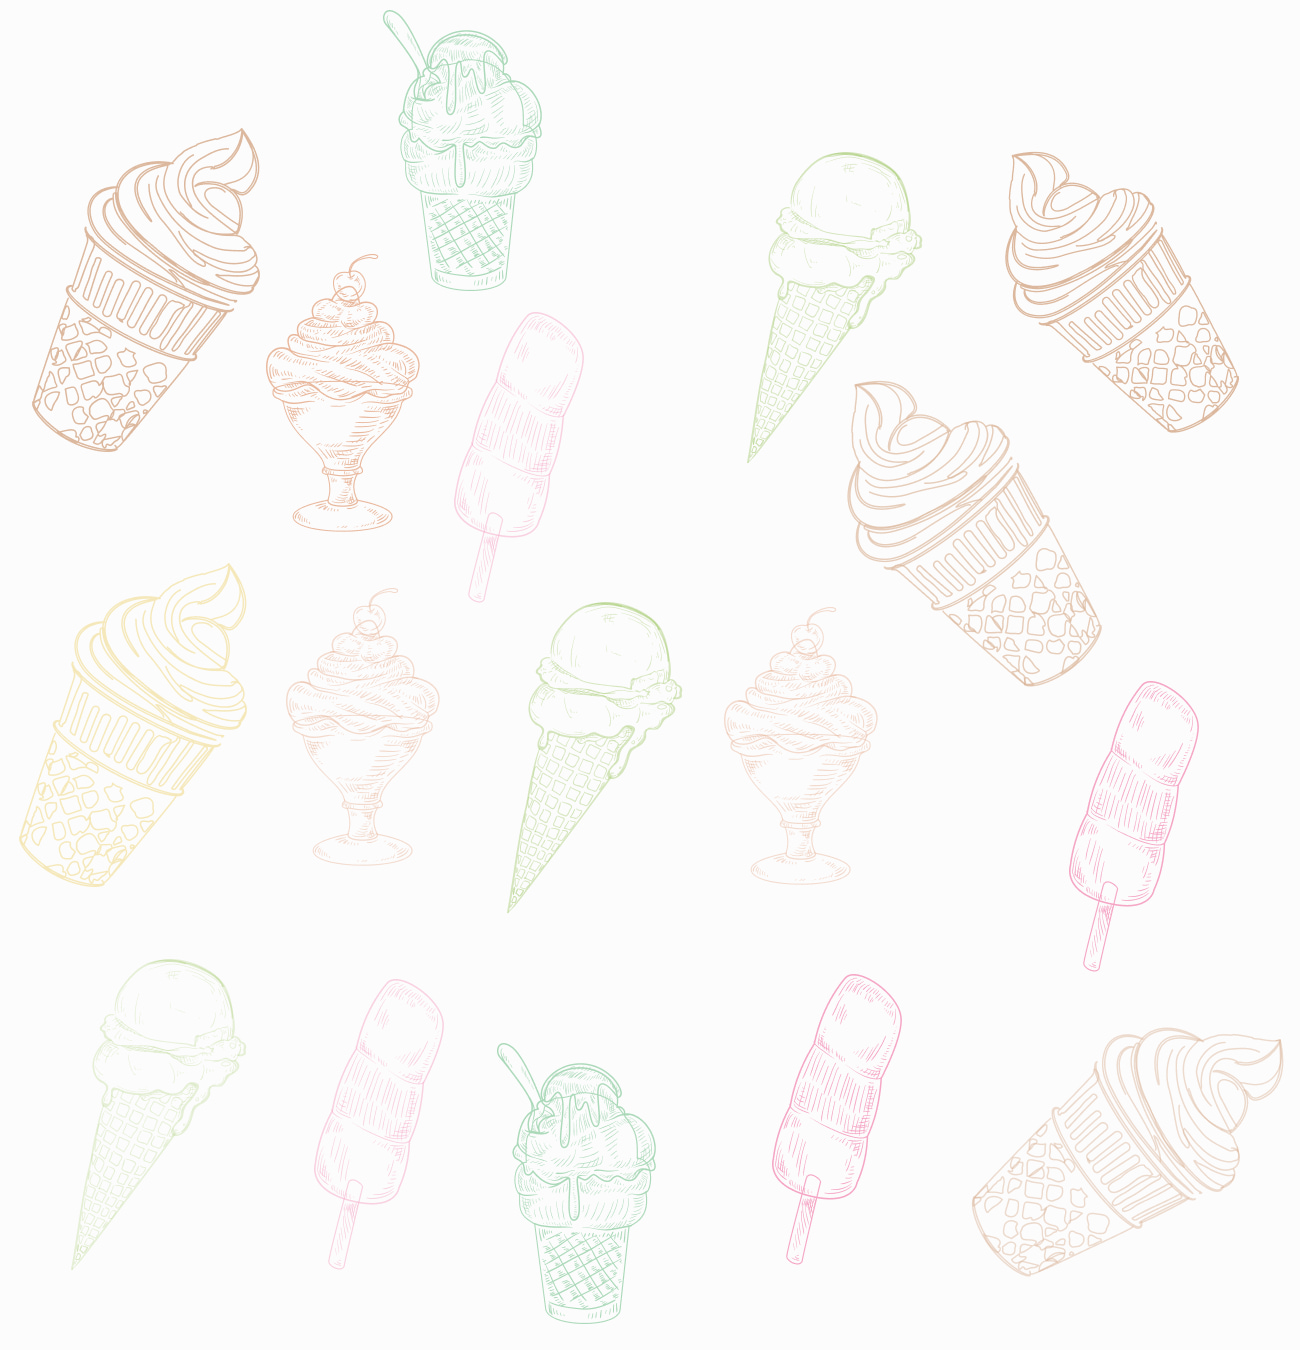
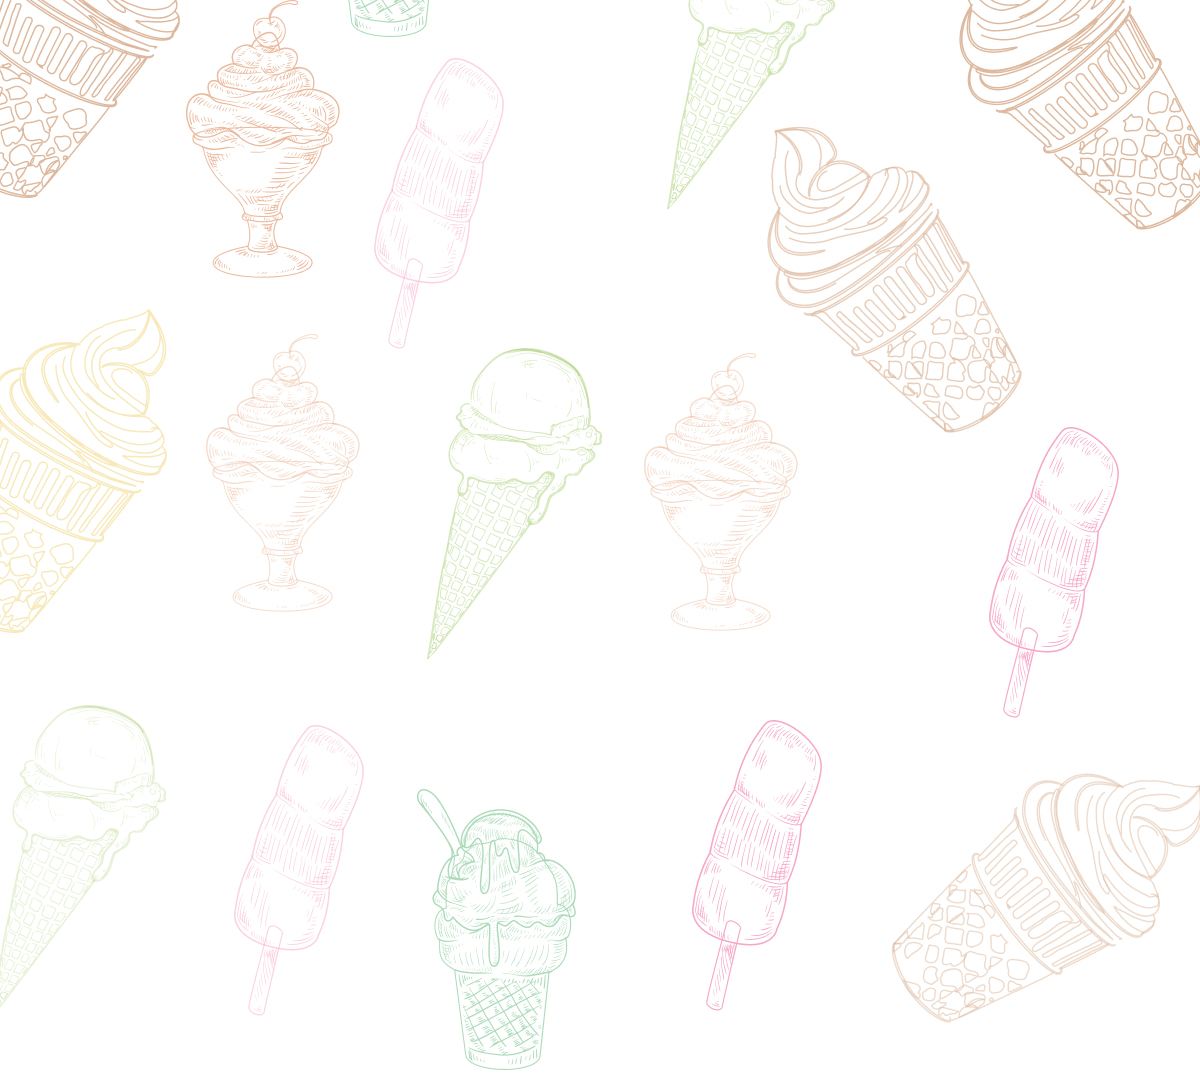
products section done

diff --git a/src/partials/products.html b/src/partials/products.html
@@ -1,53 +1,55 @@
 <section class="section-products">
-  <div class="section-products-header">
-    <span class="section-products-header-span">100% natural</span>
-    <h1 class="section-products-header-title">products</h1>
-  </div>
+  <div class="products-container">
+    <div class="section-products-header">
+      <span class="section-products-header-span">100% natural</span>
+      <h1 class="section-products-header-title">products</h1>
+    </div>
 
-  <div class="products-grid container">
-    <ul class="products-grid-list">
-      <li class="product-card-item ice-cream-container">
-        <div class="product-card-container">
-          <h2 class="product-card-title">ice cream</h2>
-          <p class="product-card-paragraph">
-            Soft ice cream with a delicate taste. Made with milk, cream, sugar
-            and natural stabilizer
-          </p>
-          <button class="product-card-arrow-button">
-            <svg class="product-card-icon" width="40" height="16">
-              <use href="./images/icons-products.svg#icon-arrow"></use>
-            </svg>
-          </button>
-        </div>
-      </li>
-      <li class="product-card-item ice-coffee-container">
-        <div class="product-card-container">
-          <h2 class="product-card-title">ice coffee</h2>
-          <p class="product-card-paragraph">
-            Fragrant invigorating drink created from 100% natural ingredients
-            without the use of preservatives and flavor enhancers
-          </p>
-          <button class="product-card-arrow-button">
-            <svg class="product-card-icon" width="40" height="16">
-              <use href="./images/icons-products.svg#icon-arrow"></use>
-            </svg>
-          </button>
-        </div>
-      </li>
-      <li class="product-card-item milkshakes-container">
-        <div class="product-card-container">
-          <h2 class="product-card-title">milkshakes</h2>
-          <p class="product-card-paragraph">
-            Sweet drinks based on milk and ice cream, supplemented with syrups,
-            fruits, berries and other sweets of your choice
-          </p>
-          <button type="button" class="product-card-arrow-button">
-            <svg class="product-card-icon" width="40" height="16">
-              <use href="./images/icons-products.svg#icon-arrow"></use>
-            </svg>
-          </button>
-        </div>
-      </li>
-    </ul>
+    <div class="products-grid container">
+      <ul class="products-grid-list">
+        <li class="product-card-item ice-cream-container">
+          <div class="product-card-container">
+            <h2 class="product-card-title">ice cream</h2>
+            <p class="product-card-paragraph">
+              Soft ice cream with a delicate taste. Made with milk, cream, sugar
+              and natural stabilizer
+            </p>
+            <button class="product-card-arrow-button">
+              <svg class="product-card-icon" width="40" height="16">
+                <use href="./images/icons-products.svg#icon-arrow"></use>
+              </svg>
+            </button>
+          </div>
+        </li>
+        <li class="product-card-item ice-coffee-container">
+          <div class="product-card-container">
+            <h2 class="product-card-title">ice coffee</h2>
+            <p class="product-card-paragraph">
+              Fragrant invigorating drink created from 100% natural ingredients
+              without the use of preservatives and flavor enhancers
+            </p>
+            <button class="product-card-arrow-button">
+              <svg class="product-card-icon" width="40" height="16">
+                <use href="./images/icons-products.svg#icon-arrow"></use>
+              </svg>
+            </button>
+          </div>
+        </li>
+        <li class="product-card-item milkshakes-container">
+          <div class="product-card-container">
+            <h2 class="product-card-title">milkshakes</h2>
+            <p class="product-card-paragraph">
+              Sweet drinks based on milk and ice cream, supplemented with
+              syrups, fruits, berries and other sweets of your choice
+            </p>
+            <button type="button" class="product-card-arrow-button">
+              <svg class="product-card-icon" width="40" height="16">
+                <use href="./images/icons-products.svg#icon-arrow"></use>
+              </svg>
+            </button>
+          </div>
+        </li>
+      </ul>
+    </div>
   </div>
 </section>

diff --git a/src/sass/_products.scss b/src/sass/_products.scss
@@ -224,9 +224,143 @@ body {
       }
 
       .product-card-item {
-        width: 320px;
+        min-width: 320px;
         height: 428px;
-        border-radius: 24px;
-        position: relative;
       }
+
+      .products-grid-list {
+        align-items: center;
+        justify-content: center;
+      }
+
+      .product-card-title {
+        padding-top: 126px;
+      }
+  }
+
+  @media (min-width: 768px) {
+    .section-products {
+      background-image: url(../images/ice-cream-background-tablet.jpg);
+      background-size: 125%;
+      background-position: -30px -122px;
+    }
+
+    .section-products-header {
+      margin-bottom: 200px;
+    }
+
+    .section-products-header-span {
+      font-size: 22px;
+      line-height: 1.219;
+    }
+  
+    .section-products-header-title {
+      font-size: 34px;
+      line-height: 1.256;
+    }
+
+    .product-card-item {
+      flex: calc(33.333% - 16px);
+      min-width: 224px; 
+    }
+
+    .products-grid-list {
+      align-items: flex-start;
+    }
+
+    .ice-coffee-container,
+    .milkshakes-container {
+      margin-top: 0;
+    }
+
+    .product-card-title {
+      font-size: 22px;
+      padding-top: 108px;
+    }
+  
+    .product-card-paragraph {
+      width: 172px;
+    }
+  }
+
+  @media (min-width: 1200px) {
+    .section-products {
+      background-image: url(../images/ice-cream-background.jpg);
+      background-size: cover;
+      background-position: 0 0;
+      background-repeat: no-repeat;
+    }
+
+    .section-products-header {
+      padding-bottom: 120px;
+    }
+
+    .section-products-header-span {
+      font-size: 30px;
+    }
+  
+    .section-products-header-title {
+      font-size: 36px;
+      line-height: 1.173;
+      letter-spacing: 0.06em;
+    }
+
+    .products-grid-list {
+      gap: 29px;
+    }
+
+    .product-card-item {
+      flex-basis: calc((100% - 58px) / 3);
+      min-width: 370px;
+      height: 536px;
+    }
+
+    .ice-cream-container {
+      box-shadow: 0px 8px 30px 0px #D414431A;
+    }
+
+    .product-card-title {
+      font-size: 30px;
+      padding-top: 165px;
+    }
+  
+    .product-card-paragraph {
+      width: 246px;
+      font-size: 16px;
+    }
+
+    .product-card-arrow-button {
+      bottom: 60px;
+      transform: translateX(180%);
+    }
+
+    .ice-cream-container::after,
+    .ice-coffee-container::after,
+    .milkshakes-container::after {
+      width: 302px; 
+      height: 302px; 
+      border-radius: 150px; 
+      top: -34%;
+  }
+
+  .ice-cream-container::before,
+  .ice-coffee-container::before,
+  .milkshakes-container::before {
+    width: 302px; 
+    height: 302px; 
+    border-radius: 50%; 
+    top: -318px;
+  }
+
+  .ice-cream-container::before {
+    box-shadow: 0px 8px 30px 0px #0A881740;
+  }
+
+  .ice-coffee-container::before {
+    box-shadow: 0px 8px 30px 0px #99721740;
+  }
+  
+  .milkshakes-container::before {
+    box-shadow: 0px 8px 30px 0px #00000040;
+  }
   }
